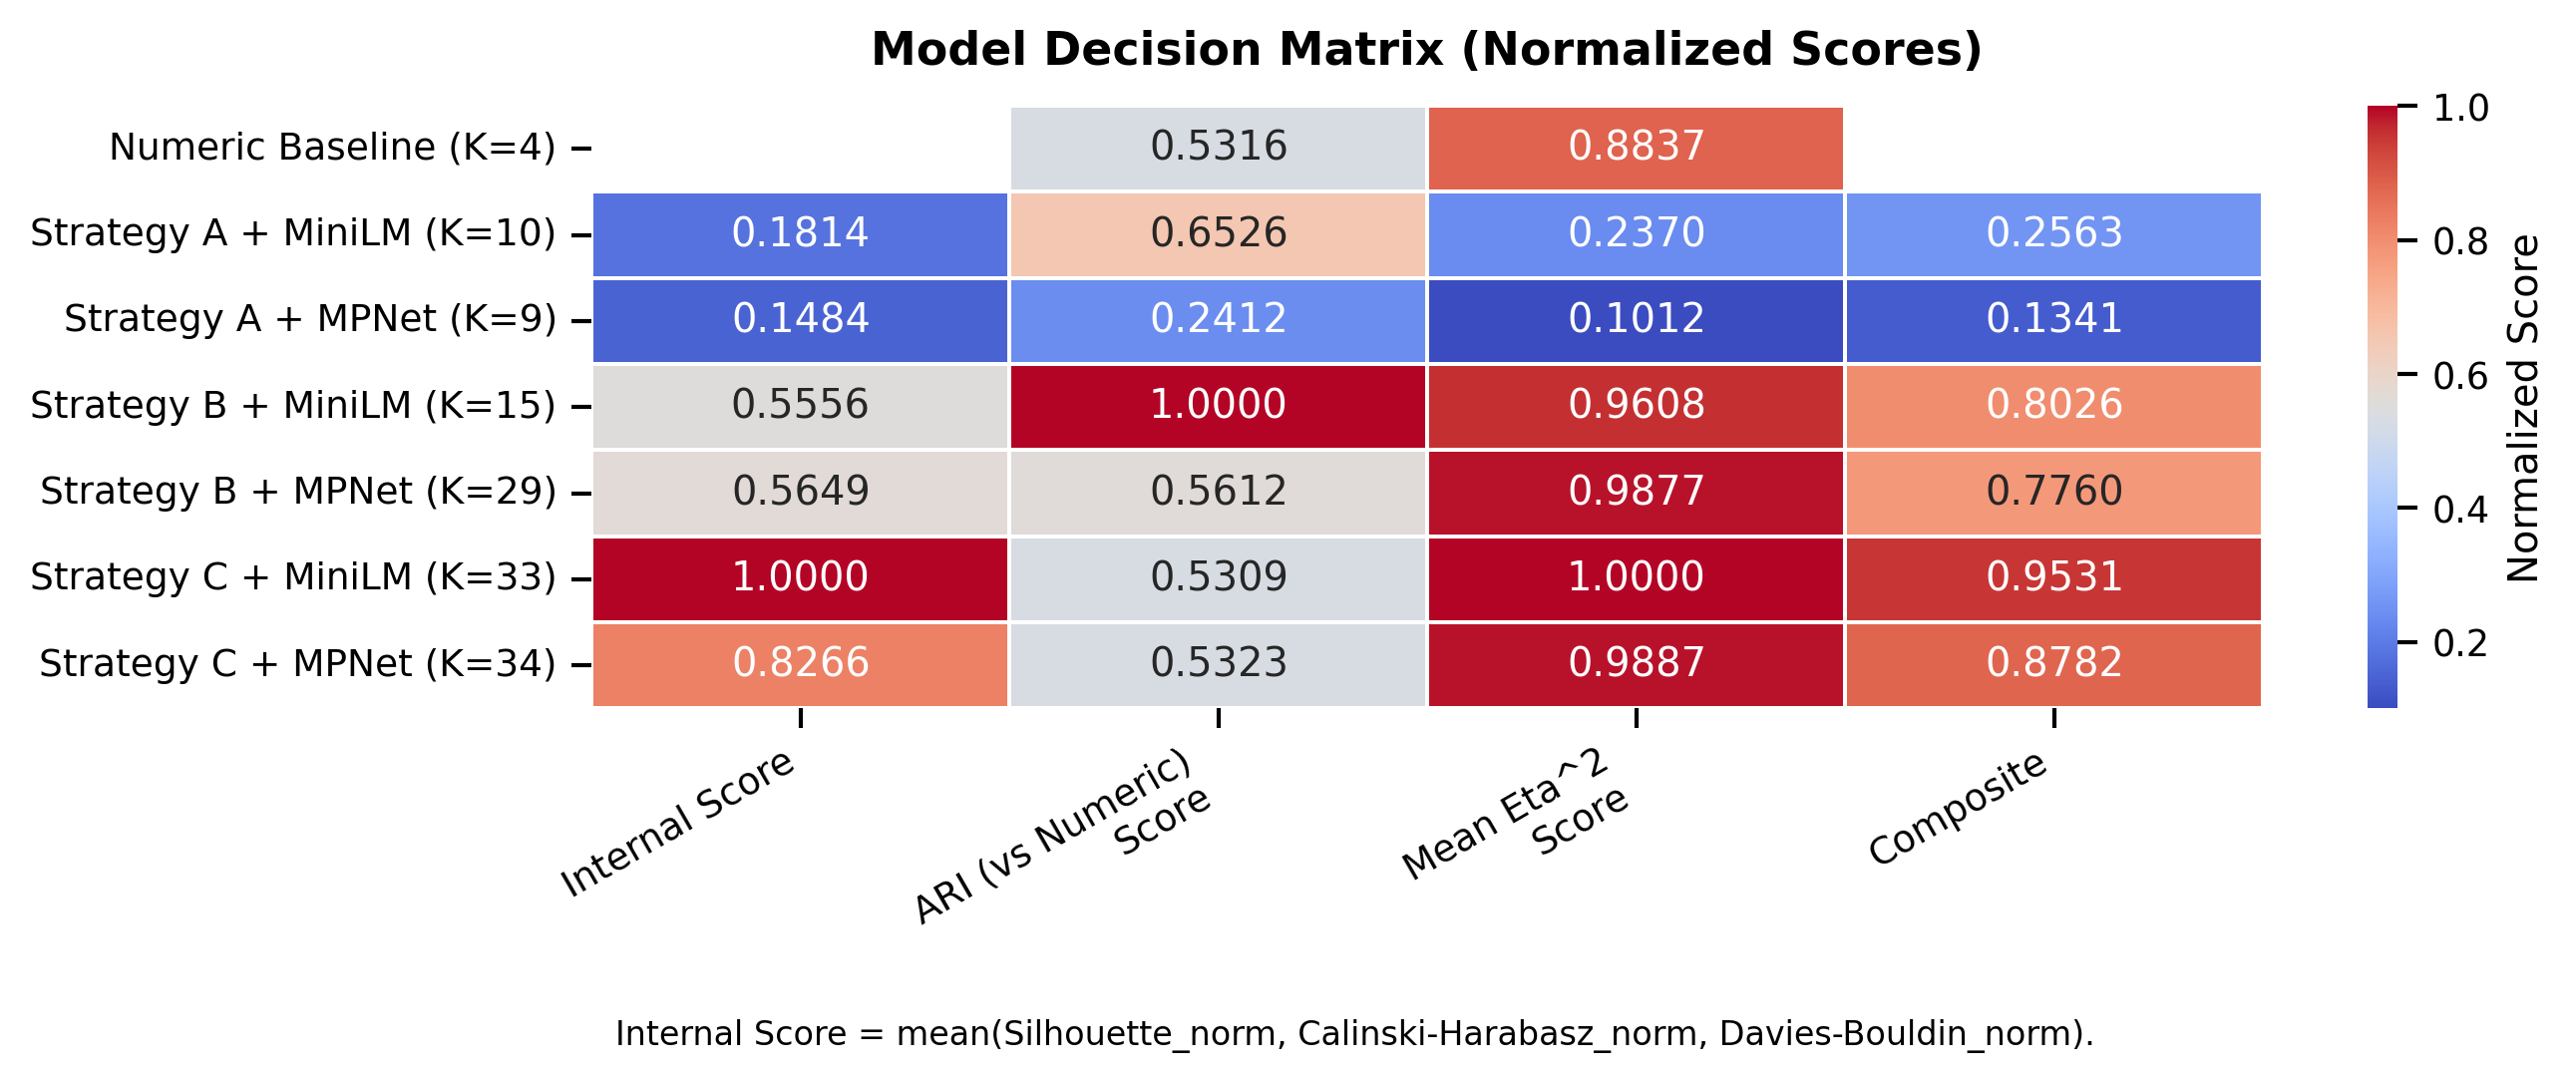
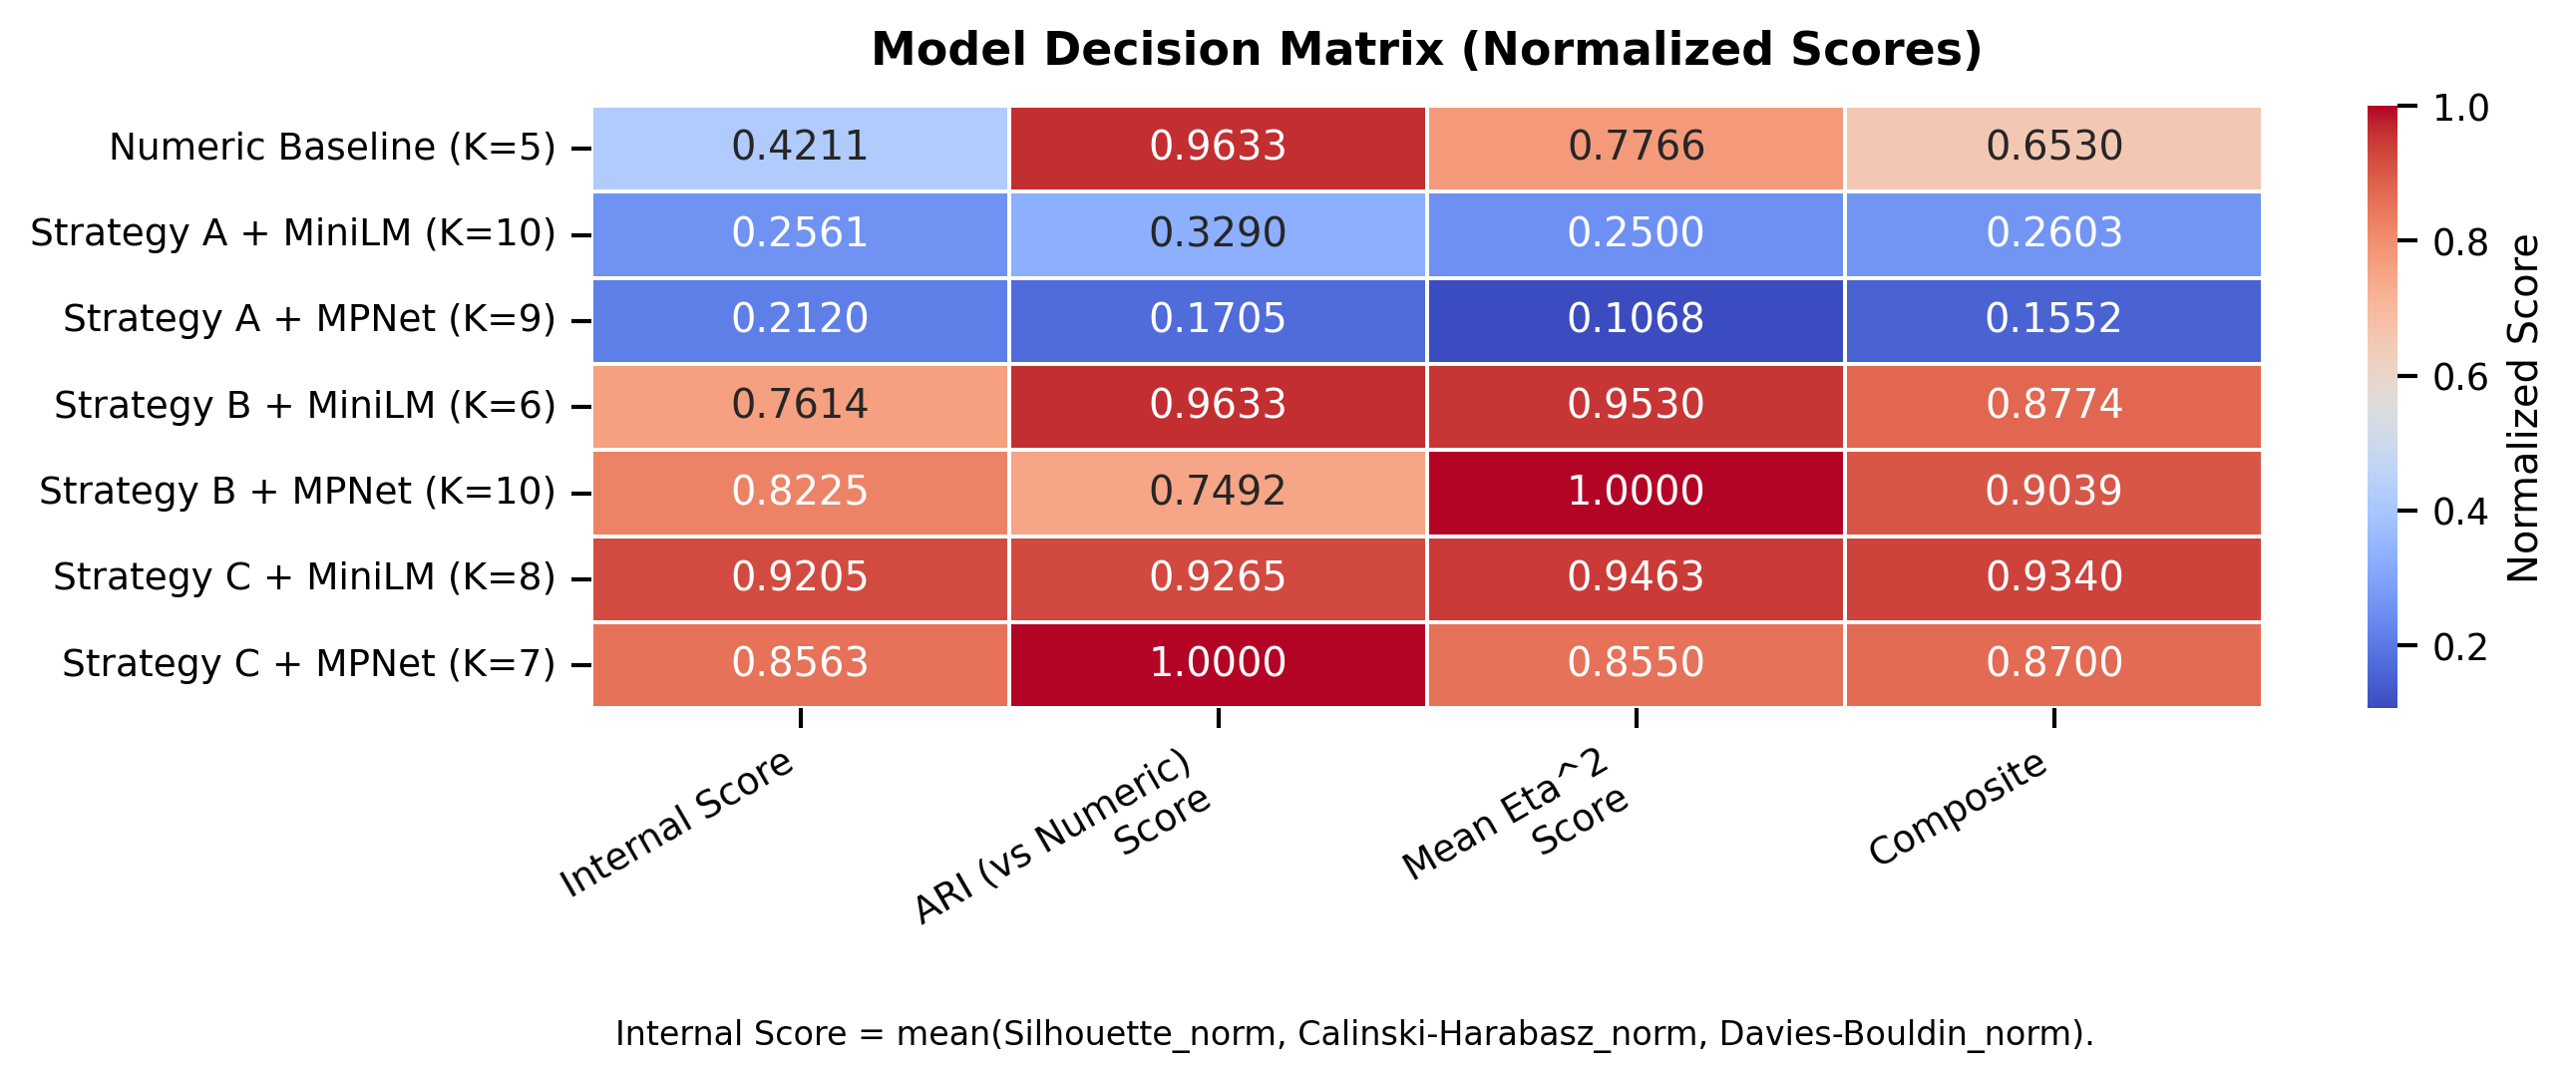
added final figures

diff --git a/narrative_embedding_clustering/final result/build_final_comparison.py b/narrative_embedding_clustering/final result/build_final_comparison.py
@@ -91,23 +91,64 @@ def mean_eta_squared(template: str, embedding_id: str) -> float:
 
 
 def numeric_row() -> dict:
-    """Build a Numeric Baseline row using GMM-AICc."""
+    """Build a Numeric Baseline row using GMM-AICc.
+
+    Internal validity (silhouette/CH/DB) are computed in the numeric 8-D
+    standardized feature space using the gmm_aicc_best_label from
+    student_clusters.csv, then the AICc winner (K, cov) is read from
+    diagnostics/model results/gmm_model_selection.csv.
+    """
+    from sklearn.metrics import silhouette_score, calinski_harabasz_score, davies_bouldin_score
+    from sklearn.preprocessing import StandardScaler
+
     anova_path = OUTPUT_ROOT / "numeric_marks_anova_by_cluster.csv"
     df = pd.read_csv(anova_path)
     sub = df[(df["cluster_label"] == "gmm_aicc_best_label") & (df["outcome"].isin(SUBJECTS))]
     mean_eta = float(sub["eta_squared"].mean()) if not sub.empty else float("nan")
-    # Numeric K=4 (AICc) is the standard baseline; sil/CH/DB are not computed for numeric against narrative embedding space.
-    # Use placeholders sourced from the paper's original final_model_comparison (K=4, full cov).
-    # We set internal metrics to NaN so the heatmap normalization uses narrative rows only.
+
+    # Recompute internal metrics from the numeric feature space.
+    sil = ch = db = float("nan")
+    k_val = 0
+    cov_val = "unknown"
+    try:
+        feats_path = PROJECT_ROOT / "diagnostics" / "cluster input features" / "derived_features.csv"
+        labels_path = PROJECT_ROOT / "diagnostics" / "student cluster labels" / "student_clusters.csv"
+        gmm_sel_path = PROJECT_ROOT / "diagnostics" / "model results" / "gmm_model_selection.csv"
+
+        feats = pd.read_csv(feats_path)
+        labels_df = pd.read_csv(labels_path)[["IDCode", "gmm_aicc_best_label"]]
+
+        feature_cols = [
+            "n_items", "accuracy", "avg_rt", "var_rt", "rt_cv",
+            "longest_correct_streak", "longest_incorrect_streak",
+            "consecutive_correct_rate",
+        ]
+        merged = feats.merge(labels_df, on="IDCode", how="inner").dropna(subset=feature_cols + ["gmm_aicc_best_label"])
+        X = StandardScaler().fit_transform(merged[feature_cols].to_numpy(dtype=float))
+        y = merged["gmm_aicc_best_label"].to_numpy()
+        if len(np.unique(y)) > 1:
+            sil = float(silhouette_score(X, y))
+            ch = float(calinski_harabasz_score(X, y))
+            db = float(davies_bouldin_score(X, y))
+            k_val = int(len(np.unique(y)))
+
+        # AICc winner K, cov from grid
+        gm_df = pd.read_csv(gmm_sel_path)
+        best = gm_df.loc[gm_df["aicc"].idxmin()]
+        k_val = int(best["K"])
+        cov_val = str(best["covariance_type"])
+    except Exception as exc:
+        print(f"WARN numeric_row internal metrics: {exc}")
+
     return {
         "Template": "Numeric",
         "Model": "GMM-AICc",
-        "Winner K": 4,
-        "Winner Cov": "full",
-        "Silhouette (Cosine)": np.nan,
-        "Calinski-Harabasz": np.nan,
-        "Davies-Bouldin": np.nan,
-        "ARI (vs Numeric)": np.nan,  # filled by plot script from narrative mean
+        "Winner K": k_val,
+        "Winner Cov": cov_val,
+        "Silhouette (Cosine)": round(sil, 4) if not np.isnan(sil) else np.nan,
+        "Calinski-Harabasz": round(ch, 4) if not np.isnan(ch) else np.nan,
+        "Davies-Bouldin": round(db, 4) if not np.isnan(db) else np.nan,
+        "ARI (vs Numeric)": np.nan,  # self-reference; filled by plot script
         "Mean Eta^2": mean_eta,
     }
 